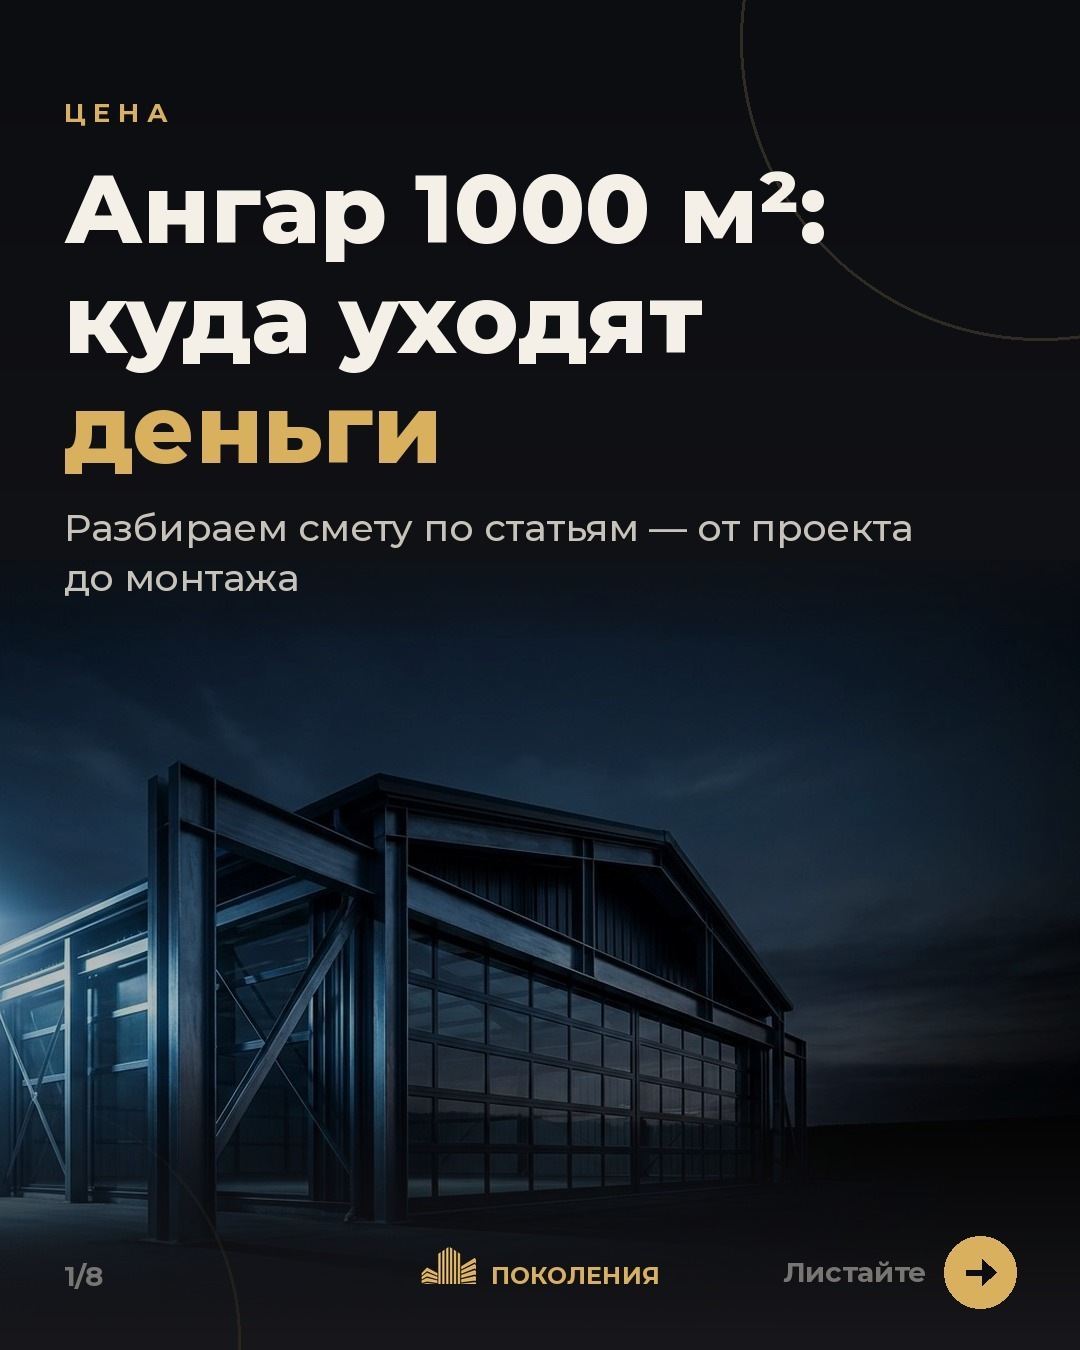
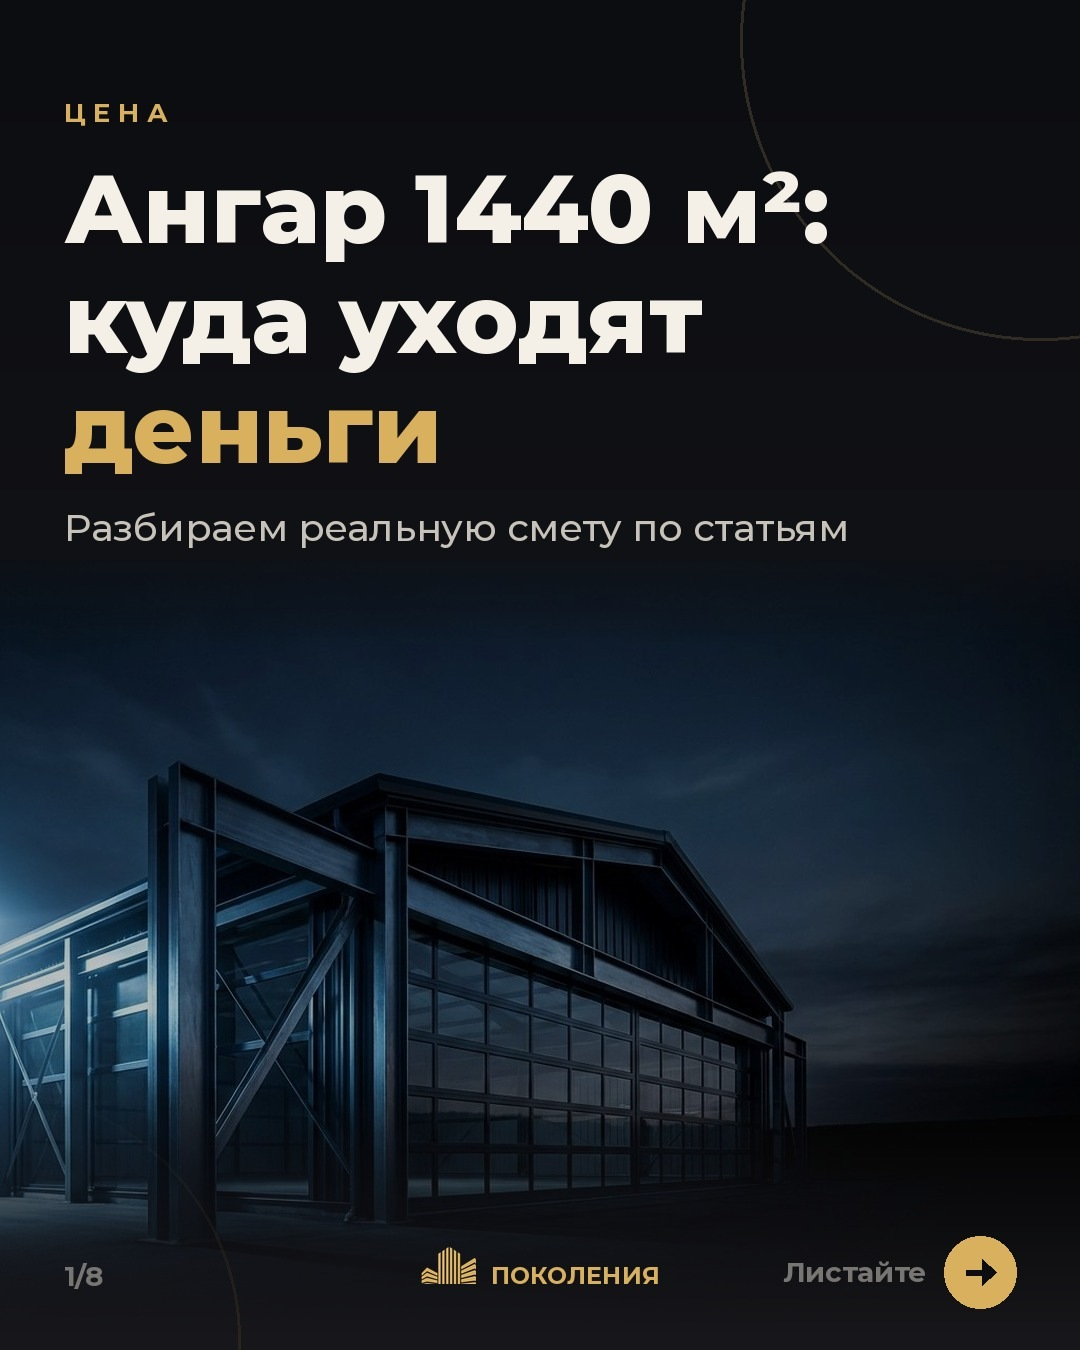
Fill price carousel with real estimate breakdown (KP 192)
Claude-Session: https://claude.ai/code/session_019hh1tyQfnmNP9Rdxadr1Bk

diff --git a/brand/carousel_cena.py b/brand/carousel_cena.py
@@ -8,26 +8,30 @@ F,W,H,GOLD,WHT,TXT,GRY,X0,BG1=[g[k] for k in 'F W H GOLD WHT TXT GRY X0 BG1'.spl
 background,footer,rich,pills=g['background'],g['footer'],g['rich'],g['pills']
 OUT=ROOT+'/drafts/carousel_cena/'; os.makedirs(OUT,exist_ok=True)
 
-# Доля статьи в цене, % — заполнить по данным владельца (None = пусто)
-SHARE={'Проект':None,'Фундамент':None,'Каркас':None,'Стены и кровля':None,'Ворота и окна':None,'Монтаж':None}
-def pct(k): return f'{SHARE[k]}%' if SHARE[k] is not None else '[__]%'
+# Источник: КП №192 от 29.09.2026 — ангар (склад) 1440 м², высота 8 м, Москва, итого 55 343 780 ₽ без НДС
+AREA=1440; TOTAL=55343780
+SUM={'Проект':900000,'Фундамент и пол':16678800,'Каркас':13298000,'Стены и кровля':12589780,'Ворота и окна':1529500,'Монтаж':10347700}
+SHARE={'Проект':2,'Фундамент и пол':30,'Каркас':24,'Стены и кровля':23,'Ворота и окна':3,'Монтаж':18}  # округлено, сумма 100
+def pct(k): return f'{SHARE[k]}%'
+def m2(k): return f'~{round(SUM[k]/AREA/100)*100:,}'.replace(',', '\u00a0')+'\u00a0₽/м²'
 
-ITEMS=[('Проект',[[('Расчёт нагрузок:',1),('снег, ветер, оборудование',0)],[('Чертежи',0),('КМ и КМД',1),('— по ним делают металл',0)],[('Архитектура и планировка',1),('под ваш процесс',0)]]),
-('Фундамент',[[('Геология',1),('участка — без неё фундамент «на глаз»',0)],[('Тип фундамента:',0),('плита, лента или сваи',1)],[('Бетон, арматура',1),('и закладные под колонны',0)]]),
-('Каркас',[[('Металлоконструкции',1),('по чертежам КМД',0)],[('Антикоррозийная обработка',1),('и покраска',0)],[('Изготовление',1),('и доставка на объект',0)]]),
-('Стены и кровля',[[('Сэндвич-панели:',1),('толщина утеплителя под ваш регион',0)],[('Фасонные элементы',1),('и герметизация стыков',0)],[('Водосток',1),('и снегозадержание',0)]]),
-('Ворота и окна',[[('Ворота:',0),('секционные или откатные',1)],[('Двери',1),('и аварийные выходы',0)],[('Окна',1),('и световые проёмы',0)]]),
-('Монтаж',[[('Бригада',1),('и прораб на объекте',0)],[('Кран и техника',1),('для сборки каркаса',0)],[('Сдача объекта',1),('и гарантия',0)]])]
+ITEMS=[('Проект',[[('Чертежи',0),('КЖ, КМ и КМД',1)],[('По ним делают',0),('фундамент и металл',1)],[('Расчёт нагрузок',1),('под ваш регион',0)]]),
+('Фундамент и пол',[[('Разработка грунта',1),('с вывозом — 720\u00a0м³',0)],[('Монолитный ростверк',1),('под колонны',0)],[('Плита пола 200\u00a0мм,',1),('двойное армирование',0)]]),
+('Каркас',[[('76 тонн',1),('металлоконструкций',0)],[('Изготовление',1),('по чертежам КМД',0)],[('Доставка',1),('на объект',0)]]),
+('Стены и кровля',[[('Сэндвич-панели:',1),('стены 120\u00a0мм, кровля 150\u00a0мм минваты',0)],[('Фасонные элементы',1),('— примыкания, отливы, коньки',0)],[('Водосток',1),('и снегозадержатели',0)]]),
+('Ворота и окна',[[('Секционные ворота',1),('3×3,5\u00a0м с автоматикой',0)],[('Окна ПВХ',1),('— 65\u00a0м²',0)]]),
+('Монтаж',[[('Монтаж каркаса',1),('с краном и техникой',0)],[('Монтаж панелей',1),('— 2\u00a0937\u00a0м²',0)],[('Гарантия',1),('24 месяца',0)]])]
 LABELS=[k for k,_ in ITEMS]
 
 def item(i,name,bullets):
     n=i+1; im=background(); d=ImageDraw.Draw(im)
     pills(d,n,['Проект','Фундамент','Каркас','Стены','Ворота','Монтаж'])
     d.rounded_rectangle([X0,160,X0+104,226],radius=33,outline=GOLD,width=3); d.text((X0+22,168),f'{n:02d}',font=F(42),fill=GOLD)
-    d.text((X0,246),name,font=F(80),fill=WHT)
+    d.text((X0,246),name,font=F(80 if len(name)<14 else 72),fill=WHT)
     top=380; d.rounded_rectangle([X0,top,W-X0,top+330],radius=36,fill=(18,18,21),outline=(80,68,46),width=2)
     d.text((X0+56,top+48),'ДОЛЯ В ЦЕНЕ АНГАРА',font=F(26,'700'),fill=GRY)
     p=pct(name); d.text((X0+50,top+96),p,font=F(150),fill=GOLD)
+    t=m2(name); d.text((W-X0-56-d.textlength(t,font=F(40,'700')),top+170),t,font=F(40,'700'),fill=WHT)
     # шкала
     bx,by,bw=X0+56,top+270,W-2*X0-112
     d.rounded_rectangle([bx,by,bx+bw,by+18],radius=9,fill=(40,38,34))
@@ -39,16 +43,14 @@ def item(i,name,bullets):
 
 def final():
     im=background(); d=ImageDraw.Draw(im)
-    d.text((X0,96),'И Т О Г',font=F(26,'700'),fill=GOLD)
-    y=150
-    for t,c in [('Всё включено —',WHT),('от 20 000 ₽/м²',GOLD)]:
-        d.text((X0,y),t,font=F(84),fill=c); y+=100
-    y=rich(d,X0,y+20,[('Ангар 1000 м² — от',0),('20 млн ₽',1),('под ключ. Все 6 статей в одной смете, без доплат по ходу стройки.',0)],38,W-2*X0)+30
-    for k in LABELS:
-        d.rounded_rectangle([X0,y+6,X0+40,y+46],radius=10,fill=GOLD)
-        d.line([(X0+10,y+26),(X0+18,y+35),(X0+31,y+16)],fill=BG1,width=5)
-        d.text((X0+64,y+4),k,font=F(40,'700'),fill=WHT); y+=64
-    y+=30
+    d.text((X0,96),'И Т О Г   П О   С М Е Т Е',font=F(26,'700'),fill=GOLD)
+    d.text((X0,150),'55,3 млн ₽',font=F(110),fill=GOLD)
+    y=rich(d,X0,290,[('Склад 1440\u00a0м², высота 8\u00a0м, Москва —',0),('38\u00a0400\u00a0₽/м²',1),('без НДС',0)],38,W-2*X0)+10
+    y=rich(d,X0,y,[('Срок —',0),('95 рабочих дней.',1),('Гарантия —',0),('24 месяца.',1)],38,W-2*X0)+40
+    d.rounded_rectangle([X0,y,W-X0,y+250],radius=24,fill=(26,25,24)); d.rectangle([X0,y+24,X0+6,y+226],fill=GOLD)
+    d.text((X0+40,y+28),'ЧЕСТНО: НЕ ВХОДИТ В ЭТУ СМЕТУ',font=F(26,'700'),fill=GOLD)
+    rich(d,X0+40,y+76,[('Топпинг пола, сваи, двери, инженерные системы, огнезащита, подключение к сетям — считаем отдельно, заранее.',0)],34,W-2*X0-80)
+    y+=300
     d.text((X0,y),'Нужно построить ангар?',font=F(48),fill=WHT)
     d.text((X0,y+64),'Пишите в директ',font=F(48),fill=GOLD)
     footer(im,8,last=True); return im

diff --git a/brand/plan_covers.py b/brand/plan_covers.py
@@ -9,7 +9,7 @@ src=open(ROOT+'/brand/carousel_kapital_v2.py').read().split('\nslides = [')[0]
 g={'__file__':ROOT+'/brand/carousel_kapital_v2.py'}; exec(compile(src,'v2','exec'),g)
 F,W,H,GOLD,WHT,TXT,X0,background,footer,rich,MARK=[g[k] for k in 'F W H GOLD WHT TXT X0 background footer rich MARK'.split()]
 hang=Image.open(ROOT+'/brand/source/angar.jpg').convert('RGB').crop((0,0,1024,740))
-COV=[('20.11','Ц Е Н А',[('Ангар 1000 м²:',WHT),('куда уходят',WHT),('деньги',GOLD)],'Разбираем смету по статьям — от проекта до монтажа'),
+COV=[('20.11','Ц Е Н А',[('Ангар 1440 м²:',WHT),('куда уходят',WHT),('деньги',GOLD)],'Разбираем реальную смету по статьям'),
 ('24.11','Ц Е Н А',[('Ангар',WHT),('«от 3 000 ₽/м²»',GOLD),('— втрое дороже',WHT)],'Что не входит в цену «от» и как сравнивать сметы'),
 ('27.11','В Ы Б О Р',[('Холодный',WHT),('или тёплый',GOLD),('ангар?',WHT)],'Что выбрать под ваш бизнес в Москве и Петербурге'),
 ('01.12','Д О Г О В О Р',[('7 вопросов',GOLD),('подрядчику',WHT),('до подписи',WHT)],'Которые сэкономят вам деньги и нервы'),
